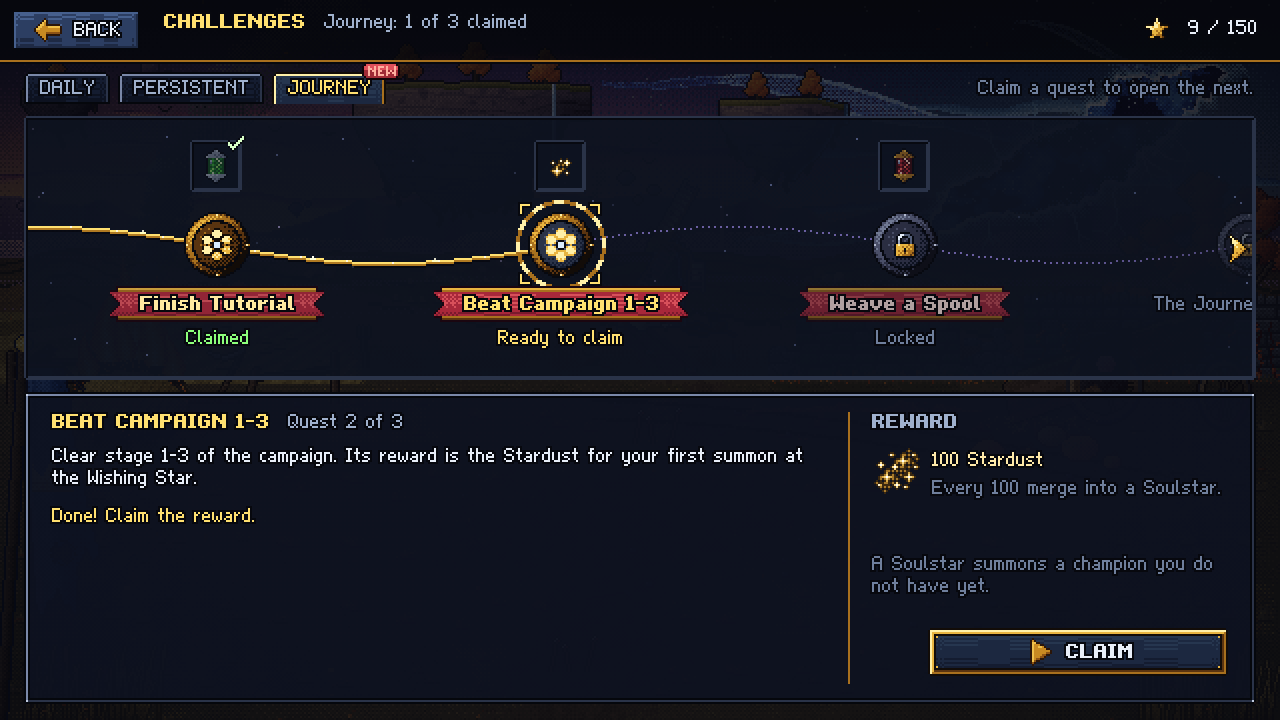
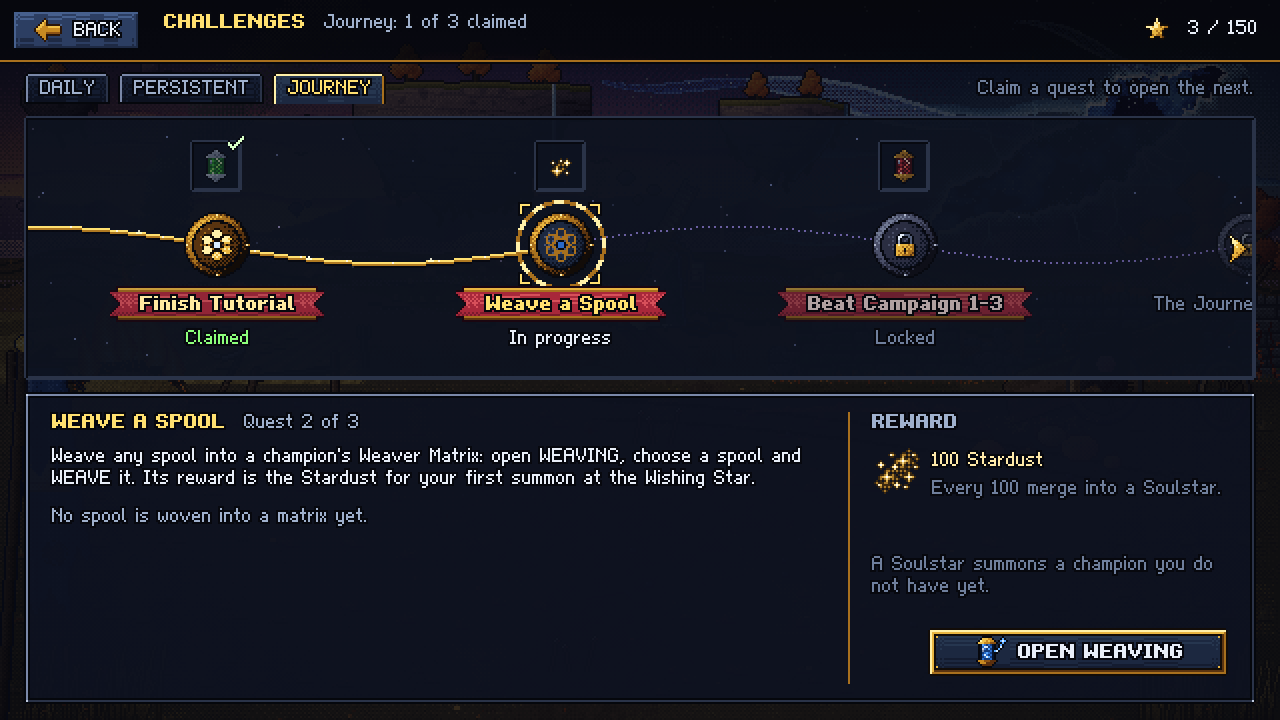
Journey: Weave a Spool second, Beat Campaign 1-3 third, rewards swapped
Jakub, 2026-10-25: "swap quests: weave a spool make sooner and after that
make beat campaign 1-3. reweards can stay. swap also rewards". The two
quests trade places and rewards, so each place keeps its reward: Weave a
Spool (second) gives the 100 Stardust of the third champion's summon,
Beat Campaign 1-3 (third) the Gilded Sunder spool. The tutorial's farewell
now sends the player on to weaving, the summon right after.

- Texts: Weave a Spool names its Stardust; Beat Campaign 1-3 reads
  "Clear stage 1-3 of the campaign."
- Balance: the Journey's Stardust is credited when its quest can first be
  claimed (after the first battle for a woven spool); with a third
  champion from 1-2 on, 1-2 and 1-3 ran 100% and 99% and were raised
  (0.81 -> 1.20, 1.03 -> 1.19: 87% and 86%); every stage in band.
- Tests, the record (36, 35, 7), the mechanics guide, MDA, CLAUDE.md and
  the README's Journey capture follow the new order.

diff --git a/tests/content.test.ts b/tests/content.test.ts
@@ -638,8 +638,11 @@ describe('challenges and the tutorial', () => {
     }
     expect(CHALLENGE_TABS.map((t) => t.id)).toEqual(['daily', 'persistent', 'journey']);
     expect(JOURNEY[0].title).toBe('Finish Tutorial');
-    // Jakub, 2026-10-25: "new journey quest: beat campaign 1-3. reward can be 100 summoning fragments"
-    expect([JOURNEY[1].title, JOURNEY[1].goal, JOURNEY[1].reward]).toEqual(['Beat Campaign 1-3', { kind: 'stage', stage: '1-3' }, { kind: 'fragments', amount: 100 }]);
+    // Jakub, 2026-10-25: "new journey quest: beat campaign 1-3. reward can be 100 summoning fragments", then
+    // "swap quests: weave a spool make sooner and after that make beat campaign 1-3 ... swap also rewards"
+    expect(JOURNEY.map((q) => q.title)).toEqual(['Finish Tutorial', 'Weave a Spool', 'Beat Campaign 1-3']);
+    expect([JOURNEY[1].goal, JOURNEY[1].reward]).toEqual([{ kind: 'weave' }, { kind: 'fragments', amount: 100 }]);
+    expect([JOURNEY[2].goal, JOURNEY[2].reward.kind]).toEqual([{ kind: 'stage', stage: '1-3' }, 'spool']);
   });
 
   it('opens the Journey one quest at a time, and a claim gives its spool or its Stardust once', () => {
@@ -648,7 +651,7 @@ describe('challenges and the tutorial', () => {
     expect([questState(p, first), questState(p, second), questState(p, third)]).toEqual(['open', 'locked', 'locked']);
     // a goal met before its quest opens waits for it
     weave(p);
-    expect(questState(p, third)).toBe('locked');
+    expect(questState(p, second)).toBe('locked');
     expect(claimQuest(p, first.id)).toBeNull();
     p.tutorial = 'done';
     expect(questState(p, first)).toBe('ready');
@@ -660,16 +663,17 @@ describe('challenges and the tutorial', () => {
     expect(p.reliquary.spools()).toHaveLength(before + 1);
     expect(p.reliquary.freshCount()).toBe(1);
     expect(claimQuest(p, first.id)).toBeNull();
-    // Beat Campaign 1-3 waits for its stage, then gives the Stardust of a summon
-    expect([questState(p, first), questState(p, second)]).toEqual(['claimed', 'open']);
+    // Weave a Spool, its goal met before it opened, is ready the moment it opens; its Stardust is a summon
+    expect([questState(p, first), questState(p, second)]).toEqual(['claimed', 'ready']);
     expect(currentQuest(p)).toBe(second);
-    for (const s of allStages().slice(0, 3)) recordClear(p, s.id, 2);
-    expect(questState(p, second)).toBe('ready');
     const dust = p.fragments;
     expect(claimQuest(p, second.id)).toEqual({ kind: 'fragments', amount: 100 });
     expect(p.fragments).toBe(dust + 100);
+    // Beat Campaign 1-3 waits for its stage, then gives its spool
+    expect(questState(p, third)).toBe('open');
+    for (const s of allStages().slice(0, 3)) recordClear(p, s.id, 2);
     expect(questState(p, third)).toBe('ready');
-    claimQuest(p, third.id);
+    expect(claimQuest(p, third.id)?.kind).toBe('spool');
     expect(p.claimed).toEqual(JOURNEY.slice(0, 3).map((q) => q.id));
     expect(readyCount(p)).toBe(0);
   });
@@ -755,8 +759,9 @@ describe('summoning', () => {
     expect(p.fragments).toBe(won.fragments);
     recordClear(p, '1-2', 3);
     expect(p.fragments).toBe(won.fragments);
-    // three first clears alone stay short of a summon: the third champion comes with Beat Campaign 1-3 (his design)
-    expect(['1-1', '1-2', '1-3'].reduce((n, s) => n + fragmentDrop(s, 3), 0)).toBeLessThan(FRAGMENTS_PER_SHARD);
+    // the first battle alone stays short of a summon: the third champion comes with the Journey's Stardust (his design)
+    expect(fragmentDrop('1-1', 3)).toBeLessThan(FRAGMENTS_PER_SHARD);
+    expect(JOURNEY.flatMap((q) => (q.reward.kind === 'fragments' ? [q.reward.amount] : []))).toEqual([FRAGMENTS_PER_SHARD]);
   });
 
   it('merges 100 Stardust into a Soulstar, and spends a Soulstar on a champion not yet owned', () => {

diff --git a/src/game/data/challenges.ts b/src/game/data/challenges.ts
@@ -6,10 +6,12 @@
 // placeholder."). The Journey's quests in their order; each opens once the one
 // before it is claimed. Then (2026-10-25): "maybe we can make also new journey
 // quest: beat campaign 1-3. reward can be 100 summoning fragments. so player
-// then can spawn his third hero", so Beat Campaign 1-3 comes second, before my
-// placeholder. Stand-ins (DESIGN_DECISIONS.md 35, 36): every text but the
-// first two quests' titles, the third quest (Weave a Spool) and the spool
-// rewards.
+// then can spawn his third hero", and the same day: "swap quests: weave a spool
+// make sooner and after that make beat campaign 1-3. reweards can stay. swap
+// also rewards": my placeholder, Weave a Spool, comes second and gives the 100
+// Stardust; Beat Campaign 1-3 comes third and gives the spool. Stand-ins
+// (DESIGN_DECISIONS.md 35, 36): every text but the titles Finish Tutorial and
+// Beat Campaign 1-3, the quest Weave a Spool, and the spool rewards.
 import { PatternId } from './types';
 
 export type ChallengeTab = 'daily' | 'persistent' | 'journey';
@@ -49,20 +51,21 @@ export const JOURNEY: readonly QuestDef[] = [
     goal: { kind: 'tutorial' },
     reward: { kind: 'spool', pattern: 'pattern_vigor', grade: 1 },
   },
-  // his (2026-10-25): its Stardust summons the third champion, the first one drawn at random
-  {
-    id: 'beat_1_3',
-    title: 'Beat Campaign 1-3',
-    text: 'Clear stage 1-3 of the campaign. Its reward is the Stardust for your first summon at the Wishing Star.',
-    goal: { kind: 'stage', stage: '1-3' },
-    reward: { kind: 'fragments', amount: 100 },
-  },
-  // his placeholder; a quest of my own stands in so the pathway can be walked
+  // his placeholder, a quest of my own; second on his word, with the second place's 100 Stardust (his):
+  // the summon of the third champion, the first one drawn at random
   {
     id: 'weave_spool',
     title: 'Weave a Spool',
-    text: "Weave any spool into a champion's Weaver Matrix: open WEAVING, choose a spool and WEAVE it.",
+    text: "Weave any spool into a champion's Weaver Matrix: open WEAVING, choose a spool and WEAVE it. Its reward is the Stardust for your first summon at the Wishing Star.",
     goal: { kind: 'weave' },
+    reward: { kind: 'fragments', amount: 100 },
+  },
+  // his (2026-10-25), third on his word, with the spool the third place gave
+  {
+    id: 'beat_1_3',
+    title: 'Beat Campaign 1-3',
+    text: 'Clear stage 1-3 of the campaign.',
+    goal: { kind: 'stage', stage: '1-3' },
     reward: { kind: 'spool', pattern: 'pattern_sunder', grade: 2 },
   },
 ];

diff --git a/tools/balance.ts b/tools/balance.ts
@@ -12,7 +12,7 @@
 //      the stage. Since summoning (2026-10-25) what they own grows by chance:
 //      Gareth from the start, the Rime Scholar from 1-1, and a summon for every
 //      100 Stardust the first clears before the stage find (one star each) and
-//      the Journey gives (Beat Campaign 1-3). Each stage averages ROSTERS
+//      the Journey gives (Weave a Spool, after the first battle). Each stage averages ROSTERS
 //      rosters, each summoned in its own seeded order at the summon odds, and
 //      up to TEAMS teams of each. Bands per stage kind (below).
 import { combatants, Combatant } from '../src/game/battle/battle';
@@ -115,6 +115,12 @@ const orders = Array.from({ length: ROSTERS }, (_, k) => {
   }
   return order;
 });
+// after which stage (its place in the campaign) each Journey quest is claimed: a stage's goal after that
+// stage, the tutorial and a woven spool after the first battle (it finds a spool, and the tutorial's
+// farewell sends the player to Weaving); never before the quest ahead of it
+const stageIds = LOCATIONS.flatMap((l) => l.stages.map((s) => s.id));
+let ahead = 0;
+const claimedAfter = JOURNEY.map((q) => (ahead = Math.max(ahead, q.goal.kind === 'stage' ? stageIds.indexOf(q.goal.stage) : 0)));
 const owned = [...STARTERS];
 let dust = 0;
 for (const loc of LOCATIONS) {
@@ -146,10 +152,12 @@ for (const loc of LOCATIONS) {
     const kind = loc === LOCATIONS[0] && si === 0 ? 'first' : s.enemies.some((e) => e.boss) ? 'boss' : 'normal';
     const [lo, hi] = CURVE_BANDS[kind];
     console.log(`${flag(w >= lo && w <= hi)} ${s.id.padEnd(6)} power ${s.power.toFixed(2)}  avg ${pct(w)}  best team ${pct(best)}  (${kind} band ${pct(lo)}-${pct(hi)}, ${size} owned)`);
-    // after its first clear: the champion it brings, its Stardust, and the Journey's for it
+    // after its first clear: the champion it brings, its Stardust, and the Journey's claimed then
     if (s.recruit && !owned.includes(s.recruit)) owned.push(s.recruit);
     dust += fragmentDrop(s.id, 1);
-    for (const q of JOURNEY) if (q.goal.kind === 'stage' && q.goal.stage === s.id && q.reward.kind === 'fragments') dust += q.reward.amount;
+    JOURNEY.forEach((q, i) => {
+      if (claimedAfter[i] === stageIds.indexOf(s.id) && q.reward.kind === 'fragments') dust += q.reward.amount;
+    });
   });
 }
 

diff --git a/src/game/tutorial.ts b/src/game/tutorial.ts
@@ -22,7 +22,7 @@
 // finishes it; the steps after it lead to the Challenges to claim that quest.
 //
 // A later lesson (2026-10-25, with summoning) starts on its own the first time
-// a summon waits (Beat Campaign 1-3 claimed, or Stardust enough): the Wishing
+// a summon waits (Weave a Spool claimed, or Stardust enough): the Wishing
 // Star, MERGE, the wish, SUMMON, and the champion who answers. It can only be
 // closed, and is shown once (the save's `lessons`).
 import { Alignment, Config, driver, Driver, PopoverDOM, Side } from 'driver.js';

diff --git a/src/game/data/campaign.ts b/src/game/data/campaign.ts
@@ -106,13 +106,13 @@ export const LOCATIONS: LocationDef[] = [
         id: '1-2',
         blurb: CONTACT,
         enemies: [{ champion: 'captain_gareth' }, { champion: 'rime_scholar' }],
-        power: 0.81,
+        power: 1.2,
       },
       {
         id: '1-3',
         blurb: `${SETTLEMENT} The pair fight together for the first time.`,
         enemies: [{ champion: 'captain_gareth' }, { champion: 'captain_gareth' }],
-        power: 1.03,
+        power: 1.19,
       },
       {
         id: '1-4',

diff --git a/CLAUDE.md b/CLAUDE.md
@@ -37,13 +37,13 @@ Stand-ins fill the gaps until he designs them, each marked as such where it live
 - **Zone 3, the Moonlit Basin** (his name and description, DESIGN_DECISIONS.md 5.6: "extend world map to the east and create new dynamic zone, third area battle background"): everything the description did not name (the moon's ring, the milky band, the clouds, the grove's trees and their glowing lianas, the great root, the long pool and its reed beds, the stones, pebbles and shells, the lumen-bells, the rings on the pools, the shooting stars), the layout and palette, the reading of "dynamic" as alive throughout with calm motion, and on the world map the night over the basin and every detail east of the grove (the darkening trees, the trailing roots, the sand, the terraced slopes and uplands, the pools, reeds and motes, the peaks and their pass).
 - **Zone 4, Earth Scars** (his name and description, DESIGN_DECISIONS.md 5.7: "create area 4. name of area = earth scars"): everything the description did not name (the ravine through the scene and its colours, the far camp and herd, the camp's details, the cairn, the cart ruts, the skull, the feather grass and its seeds, the gusts, the eagles, the clouds and the summit's banner cloud, the zeppelin's look and course), the layout and palette, my readings in 5.7 (the night lifting along the hills' crest, one ravine crossing the scene and the other far off, the flags tied along a cord, the twin at about four fifths of the great one's height, the zeppelin flying west against the wind), and on the world map every detail east of the hills' crest (the hills by day, the ravines' shapes, the camps with their corral and cart, the herds, the kurgans and stone figures, the lone tree, the salt lake, the trails, the shrubs, the trees and stream in the northern ravine, the flowers, the zeppelin and its shadow).
 - **Zone 5, the Snowy Mesa** (his name and description, DESIGN_DECISIONS.md 5.8: "i want you to create area 5"; mid-build "fix the sword of statue as it now looks like it is behind the hand" and "maybe also put a dragon bone somewhere in front left side of battle area"): everything the description did not name (the sea of cloud, the mesas' rock and their shadows, the lanterns on the cables and the posts on our rim, the castle's look, the plume's shades and its lean, the motes, the lightning in the storm, the flurries and the veils, the arbiter's bronze, nimbus, lotus, plinth and pose, the terrace and the footprints, the challengers' swords, the stone lantern, the dragon skull's look, the rocks, the choughs), the layout and palette, my readings in 5.8 ("all connected with many candles" as cables strung between the mesas hung with candles in lanterns, the late light on the world map, the storm from the upper right and from the east, the dust leaning west on the wind, the raised palm as the arbiter's sign, the dragon bone as a horned skull), and on the world map every detail east of the brink (the brink and its waterfalls, the gulf's clouds, the mesas' shapes and places, the bridges, the castle's mesa to the north-west, the pines and candles round the statue, the storm's reach).
-- **Campaign:** Zone 1's enemies (copies of the two), its stage texts (quoted from his notes; stages have no names) and the area blurbs; Zone 2's ten placeholder stages (his request of 2026-10-13, to test the area in game): their enemies (copies of the roster), powers and texts (quoting the arc of his notes); Zone 3's ten placeholder stages (my addition of 2026-10-17, so its background can be seen in game): their enemies (copies of the roster, 3-10 a boss Black Rhino), powers and texts (walking his description; the area blurb is its first sentence); 3-9 runs at 0.80; Zone 4's ten placeholder stages (his request of 2026-10-18): their enemies (copies of the roster, the Skeleton and the Rot Hulk among them, 4-10 a boss Red Cloak), powers and texts (walking his description); Zone 5's ten placeholder stages (his request of 2026-10-19): their enemies (copies of the roster, 5-10 a boss Irving Wellbington), powers and texts (walking his description). Since summoning (2026-10-25) only 1-1 brings a champion, and 1-4, 1-8, 1-9 and 1-10 run at 1.20, 0.78, 0.76 and 0.78 for the rosters summoning grows. Stage powers and every stage's enemies wait for Jakub, who will dictate them (2026-10-12).
+- **Campaign:** Zone 1's enemies (copies of the two), its stage texts (quoted from his notes; stages have no names) and the area blurbs; Zone 2's ten placeholder stages (his request of 2026-10-13, to test the area in game): their enemies (copies of the roster), powers and texts (quoting the arc of his notes); Zone 3's ten placeholder stages (my addition of 2026-10-17, so its background can be seen in game): their enemies (copies of the roster, 3-10 a boss Black Rhino), powers and texts (walking his description; the area blurb is its first sentence); 3-9 runs at 0.80; Zone 4's ten placeholder stages (his request of 2026-10-18): their enemies (copies of the roster, the Skeleton and the Rot Hulk among them, 4-10 a boss Red Cloak), powers and texts (walking his description); Zone 5's ten placeholder stages (his request of 2026-10-19): their enemies (copies of the roster, 5-10 a boss Irving Wellbington), powers and texts (walking his description). Since summoning (2026-10-25) only 1-1 brings a champion, and 1-2, 1-3, 1-4, 1-8, 1-9 and 1-10 run at 1.20, 1.19, 1.20, 0.78, 0.76 and 0.78 for the rosters summoning grows. Stage powers and every stage's enemies wait for Jakub, who will dictate them (2026-10-12).
 - **Rules:** the size of an affinity edge (±20%), the rarity budgets (carried over), how far RES must exceed ACC to resist a debuff (`landShare`), team size 3.
 - **Weaver Matrix:** the spool main values, strands and attunement, and the reading of his pattern values (fractions of base for SPD, ATK, DEF and HP, points for C.RATE and C.DMG, flat ACC and RES).
 - **Weaving and the drops** (his brief, DESIGN_DECISIONS.md 9.4: a WEAVING section on the main menu, a full inventory screen matching the Champions screen, spools from every stage, two patterns per area, numbers he tunes later, no improving): which two patterns each area holds (Sunder and Vigor, Pulse and Ward, Focus and Tranquility, Needle and Sunder, Apex and Pulse); every drop number (one spool a victory, a second for three stars, grade odds 70/25/5% to 30/45/25% through an area, the main stat by slot); unravelling a loose spool (my addition: removal, nothing given back); the texts; the art (the large spools, the grade frames, the small roses, the WEAVING glyph).
 - **The Sanctum, the main menu** (his brief, DESIGN_DECISIONS.md 10, 2026-10-24: a diorama of its own, places clicked instead of buttons, only champions changing, "very epic", "celestial or planetar", "full creativity"): all of it is mine: the island under the broken Loom, the rim, its hanging threads, the break, the veils and the golden thread, the planet, the nebula; the places' names (the Starbridge Gate, the Reliquary, the Weaver's Spire, the Observatory, the Astrolabe, since section 35 the Herald's Board and since section 36 the Wishing Star) and look; four champions at most on the plaza; the labels on the island's face.
-- **Challenges and the tutorial** (his brief, DESIGN_DECISIONS.md 35, 2026-10-24: a clickable new object on the main menu leading to Challenges, quests in three tabs, Daily and Persistent placeholders, the Journey a horizontal pathway of quests unlocked in order, the first "Finish Tutorial", the second a placeholder; a short tutorial for new accounts made with driver.js, highlighting where to click): the place, its name and look (the Herald's Board on its drifting rock), every text of the Challenges and the tutorial but "Finish Tutorial", the Daily and Persistent placeholders, the third quest (Weave a Spool; his Beat Campaign 1-3 is the second since 2026-10-25), the spool rewards (a Silver Vigor spool, a Gilded Sunder spool), the Journey's look (the band, the Loom's thread, the knots), the tutorial's steps, order and look (the cards in the game's font, the gold corners, the hand), that the first victory finishes it, that it starts on its own only on a save with no stage cleared, and that it can be skipped and played again from the Journey.
-- **Summoning** (his brief, DESIGN_DECISIONS.md 36, 2026-10-25: champions spawned from a special currency, fragments from the campaign, 100 merged into a shard, a shard a random champion at 70% Common, 25% Elite, 5% Heroic, a wish of a faction and a role "just a better chance", a new object in the main menu's sky to merge and summon, the Rime Scholar from 1-1 the only exception, the Journey's Beat Campaign 1-3 giving 100 fragments; "propose better naming"): the names (Stardust, the Soulstar, the Wishing Star; the words live in `src/game/data/summoning.ts`), how much Stardust a victory finds (20 in the Fracture Reach, 5 more in each area beyond it, 10 more for three stars), the wish's weight (twice as likely for each part a champion matches), that a summon never brings a champion twice and a found-out rarity's share goes to the others, the Paladin among the summons, the place and its look (the star on the Loom's thread, its ring, its motes, the souls drifting in, its label on the thread above it; the moon moved right of the title), the screen and its words, the ceremony's line, the lesson on the first summon, and the raised powers of 1-4, 1-8, 1-9 and 1-10.
+- **Challenges and the tutorial** (his brief, DESIGN_DECISIONS.md 35, 2026-10-24: a clickable new object on the main menu leading to Challenges, quests in three tabs, Daily and Persistent placeholders, the Journey a horizontal pathway of quests unlocked in order, the first "Finish Tutorial", the second a placeholder; a short tutorial for new accounts made with driver.js, highlighting where to click): the place, its name and look (the Herald's Board on its drifting rock), every text of the Challenges and the tutorial but "Finish Tutorial", the Daily and Persistent placeholders, the quest Weave a Spool (second on his word of 2026-10-25, giving the 100 Stardust; his Beat Campaign 1-3 third), the spool rewards (a Silver Vigor spool for Finish Tutorial, a Gilded Sunder spool for Beat Campaign 1-3), the Journey's look (the band, the Loom's thread, the knots), the tutorial's steps, order and look (the cards in the game's font, the gold corners, the hand), that the first victory finishes it, that it starts on its own only on a save with no stage cleared, and that it can be skipped and played again from the Journey.
+- **Summoning** (his brief, DESIGN_DECISIONS.md 36, 2026-10-25: champions spawned from a special currency, fragments from the campaign, 100 merged into a shard, a shard a random champion at 70% Common, 25% Elite, 5% Heroic, a wish of a faction and a role "just a better chance", a new object in the main menu's sky to merge and summon, the Rime Scholar from 1-1 the only exception, the Journey's Beat Campaign 1-3 giving 100 fragments, then the quests swapped with their rewards, so Weave a Spool, second, gives them; "propose better naming"): the names (Stardust, the Soulstar, the Wishing Star; the words live in `src/game/data/summoning.ts`), how much Stardust a victory finds (20 in the Fracture Reach, 5 more in each area beyond it, 10 more for three stars), the wish's weight (twice as likely for each part a champion matches), that a summon never brings a champion twice and a found-out rarity's share goes to the others, the Paladin among the summons, the place and its look (the star on the Loom's thread, its ring, its motes, the souls drifting in, its label on the thread above it; the moon moved right of the title), the screen and its words, the ceremony's line, the lesson on the first summon, and the raised powers of 1-2, 1-3, 1-4, 1-8, 1-9 and 1-10.
 - **Texts:** the Academy, the role descriptions, rule numbers, norms and effects.
 
 Do not add champions, factions, zones or lore beyond his record: he mediates content himself.

diff --git a/docs/MDA.md b/docs/MDA.md
@@ -365,13 +365,13 @@ Zone 5, the *Snowy Mesa*: ten placeholder stages (2026-10-19) on Jakub's request
 | --- | --- | --- |
 | Starters | Sir Aldric, Brakka, Sylwen: one per cycle affinity | `STARTERS` |
 | Recruit | 1-1's first clear recruits the Rime Scholar; ceremony; NEW badge until the champion page is opened | `recordClear`, `RecruitScreen`, `HeroSoulFile.fresh` |
-| Summoning | every victory finds Stardust (20 in the Fracture Reach, 5 more per area, 10 more for three stars: stand-ins); 100 merge into a Soulstar; a summon spends one: 70% Common, 25% Elite, 5% Heroic (his), then a champion not yet owned, those the wish names twice as likely per part (a stand-in); the ceremony; Beat Campaign 1-3 gives 100 | `summoning.ts`, `SummonScreen`, `MasterArchivist.fragments` / `shards` / `wish` |
+| Summoning | every victory finds Stardust (20 in the Fracture Reach, 5 more per area, 10 more for three stars: stand-ins); 100 merge into a Soulstar; a summon spends one: 70% Common, 25% Elite, 5% Heroic (his), then a champion not yet owned, those the wish names twice as likely per part (a stand-in); the ceremony; the Journey's Weave a Spool gives 100 | `summoning.ts`, `SummonScreen`, `MasterArchivist.fragments` / `shards` / `wish` |
 | Unlocks | a stage opens after the previous stage of its location; a location after its `requires` stage | `stageOpen`, `locationOpen` |
 | Frontier | the newest playable stage: map focus, the collection's and Weaving's backdrop, the menu's CAMPAIGN label | `frontier` |
 | Stars | best per stage; the total shows in every header | `MasterArchivist.stars`, `totalStars` |
 | Academy | 13 chapters, read marks, "n new" on the menu | `CHAPTERS`, `MasterArchivist.read` |
 | Settings | auto and speed, saved as defaults from battle and Options | `MasterArchivist.settings` |
-| Challenges | the Journey: quests in order, each opened by claiming the one before; a claim gives a spool (stand-ins) or Stardust (Beat Campaign 1-3, his); Daily and Persistent are placeholders | `JOURNEY`, `questState`, `claimQuest` |
+| Challenges | the Journey: quests in order, each opened by claiming the one before; a claim gives a spool (stand-ins) or Stardust (Weave a Spool, his reward, swapped onto it from Beat Campaign 1-3); Daily and Persistent are placeholders | `JOURNEY`, `questState`, `claimQuest` |
 | Tutorial | a new account's guided first visit through stage 1-1 to the Challenges; skippable, replayable from the Journey; a lesson on the first summon once one waits | `Tutorial`, `tutorialDue`, `summonLessonDue` |
 | Shortcuts | `?unlockall=1`, `?progress=<stage>`, `?reset=1`, `?demo=<skill>`, `?hp=<k>`, `?tutorial=1` (or `0`, `epilogue`, `summon`), `?stardust=<n>`, `?soulstars=<n>` | `main.ts`, `screens/battle.ts` |
 
@@ -731,6 +731,7 @@ Record every change that moves a dynamic out of its band, changes a band, or cha
 | 2026-10-24 | The Paladin (Jakub's brief, DESIGN_DECISIONS.md 34): Heroic, the roster's first, Tank ("class = DEFENSE"), Ember (Tide in the brief, Ember on his word the same day), Azure Crown, the reward of a quest line he designs later; a tall young knight in silver plate with a dark-blue cloak of three white crowns, a Swiss-shaped shield with a double cross and a wide, very bright burning sword; Searing Cut (1.0) with ATK Down for 1 turn; Beacon (cooldown 4), DEF Up on all allies and Slow on all enemies for 2 turns, no damage, and 35% of his own turn meter (`selfTm`, now shown as `+35% TURN` as his turn ends); Trial by Fire (0.7 on each enemy, cooldown 5), Taunt for 2 turns and Regen for 3 on himself before the sweep; Unbowed, +50 RES (a stat passive). Presentation: flames drawn into every frame of his sprite, and the atlas carries where his blade burns (`CharDef.glow`), so the game lights the air round it and throws embers off it. Joins on the first clear of 5-10 (a stand-in for his quest line), after the last stage | AE1, AE3, DY1 | impact: the Paladin 82% (84% with the sweep at 0.8), the roster's highest; 11 lines out (were 13: a strong champion among the opponents brought three Elites into the band); no stage's curve moved (he joins after the last) | 11 lines out; T22 | set by Jakub; the names Searing Cut, Beacon, Trial by Fire and Unbowed, the texts, the multipliers, the stats, the lore line, the stage that brings him and the details of his art are stand-ins; no power or other champion retuned |
 | 2026-10-24 | Challenges and the tutorial (Jakub's brief, DESIGN_DECISIONS.md 35): a new place on the main menu (the Herald's Board) leading to Challenges in three tabs, Daily and Persistent placeholders and the Journey, a horizontal pathway of quests unlocked one after another (Finish Tutorial, then Weave a Spool standing in for his placeholder), each claim giving a spool; a short tutorial for new accounts made with driver.js: the Sanctum, the campaign, stage 1-1 (the turn meter, a stronger skill, a target, a cooldown), the victory and its recruit, the Challenges and a claim | AE4, AE6, AE3 | DY11: the first battle is taught on screen as it happens; DY9: two spools more over the first quests (a Silver, a Gilded) | a new account met the Sanctum alone -> about fifteen short cards and one battle; spools from quests 0 -> 2 | set by Jakub: the place, the three tabs and their order, the Journey's sequence and its first quest, a tutorial with driver.js; stand-ins: the Herald's Board, the second quest, the rewards, every text but "Finish Tutorial", the tutorial's steps and look; no power retuned |
 | 2026-10-25 | Summoning (Jakub's brief, DESIGN_DECISIONS.md 36): champions are summoned, not won; every victory finds Stardust (20 in the Fracture Reach, 5 more per area, 10 more for three stars), 100 merge into a Soulstar, a Soulstar summons a champion not yet owned at 70% Common, 25% Elite, 5% Heroic, a wish of a faction and a role making what it names twice as likely per part; the Wishing Star in the Sanctum's sky; only 1-1 still brings a champion (the Rime Scholar); Beat Campaign 1-3 on the Journey gives 100 Stardust, the third champion's summon; a lesson on the first summon | AE3, AE6, AE4 | DY9 becomes chance: the roster grows by summons (a third champion after 1-3, five after Zone 1 and eighteen by the end without farming, in a random order); replays now pay toward champions; Zone 1's teams are Gareth and the Rime Scholar with one or two drawn at random, so 1-4, 1-8, 1-9 and 1-10 ran 100 / 95 / 95 / 89%; the balance curve now grows rosters as summoning does (eight seeded rosters) | 1-4 1.20 (was 0.86), 1-8 0.78 (0.71), 1-9 0.76 (0.68), 1-10 0.78 (0.70): 87 / 87 / 85 / 73%; every stage in band; impact unchanged (11 lines out) | set by Jakub: the currency and its merging (100 to 1), the summon and its odds, the wish as a better chance, the place in the sky, the Rime Scholar the only exception, Beat Campaign 1-3 and its 100; stand-ins: the names (Stardust, Soulstar, the Wishing Star), how much a victory finds, the wish's weight, no repeats, the Paladin among the summons, the place's look, the screen, the lesson, the four powers |
+| 2026-10-25 | The Journey reordered on Jakub's word (DESIGN_DECISIONS.md 36): Weave a Spool second, Beat Campaign 1-3 third, the two swapping rewards (the 100 Stardust stay with the second quest) | AE6, AE3 | DY9: the third champion comes right after the tutorial (Finish Tutorial's spool woven), before 1-2; DY11: the tutorial's farewell sends the player to Weaving and the next quest is weaving | 1-2 and 1-3 ran 100% and 99% with a third champion -> powers 1.20 (was 0.81) and 1.19 (1.03): 87% and 86%; every stage in band | set by Jakub: the order and the swap of the rewards; stand-ins: Weave a Spool itself, both texts, the two powers |
 
 ## 10. Keeping this document true
 

diff --git a/docs/DESIGN_DECISIONS.md b/docs/DESIGN_DECISIONS.md
@@ -78,6 +78,7 @@ Section 7 lists what is not decided.
 | 2026-10-24 | The Paladin's affinity: Ember (Tide in the brief) | 34 |
 | 2026-10-24 | Challenges: a new place on the main menu leading to a screen of quests in three tabs, Daily and Persistent (placeholders) and the Journey (a horizontal pathway of quests unlocked one after another: Finish Tutorial, then a placeholder); a short tutorial for new accounts, made with driver.js | 7, 11, 35 |
 | 2026-10-25 | Summoning: champions are summoned with a currency found in the campaign (100 fragments merge into a shard, a shard summons one champion at random: 70% Common, 25% Elite, 5% Heroic), a wish of a faction and a role making them likelier, a new object in the Sanctum's sky where fragments are merged and champions summoned; the Rime Scholar, from 1-1, the only champion a stage brings; a Journey quest, Beat Campaign 1-3, giving 100 fragments; better names asked for (my proposal stands in) | 2.2, 5.6-5.8, 7, 11, 34, 35, 36 |
+| 2026-10-25 | The Journey reordered: Weave a Spool second, Beat Campaign 1-3 third, the two swapping rewards, so the second quest still gives the 100 fragments | 7, 35, 36 |
 
 ---
 
@@ -1104,10 +1105,13 @@ open questions.
 - The Daily and Persistent challenges: "for now in daily and persistent tabs
   those ar ejust placeholders" (2026-10-24) *(the tabs show empty rows and
   "not designed yet", section 35)*
-- The Journey after its second quest, and what the first gives: "second
-  quest is placeholder" (2026-10-24), then "beat campaign 1-3. reward can be
-  100 summoning fragments" (2026-10-25) *(the game stands in Weave a Spool as
-  the third, and a spool for Finish Tutorial and for it, sections 35, 36)*
+- The Journey after its third quest, and what Finish Tutorial and Beat
+  Campaign 1-3 give: "second quest is placeholder" (2026-10-24), then "beat
+  campaign 1-3. reward can be 100 summoning fragments" and "swap quests:
+  weave a spool make sooner and after that make beat campaign 1-3"
+  (2026-10-25) *(the game stands in Weave a Spool as the second quest, giving
+  the 100 fragments since the swap, and a spool for Finish Tutorial and for
+  Beat Campaign 1-3, sections 35, 36)*
 - Campaign count of zones
 - Zone 3's stages, enemies and story *(the game stands in ten placeholder
   stages, 5.6)*
@@ -2794,8 +2798,8 @@ read from the save as it stands, so a goal met before the quest opens counts
 the moment it does; claiming gives the quest's reward and opens the next.
 "Finish Tutorial" is done when the tutorial is finished: the first battle won
 while it runs. "Second quest is placeholder": a quest of my own stands in so
-the pathway can be walked *(since 2026-10-25 his Beat Campaign 1-3 is the
-second quest and mine the third, section 36)*. He named no rewards; each quest gives a spool. "For
+the pathway can be walked *(since 2026-10-25 it stays second, now giving
+the 100 Stardust, and his Beat Campaign 1-3 follows it, section 36)*. He named no rewards; each quest gives a spool. "For
 new accounts": the tutorial starts on its own on a save with no stage
 cleared, unless it was finished or skipped; anyone can play it from the
 Journey. "Use driver.js": driver.js (1.9.0) draws the overlay and its
@@ -2919,7 +2923,8 @@ champions are fragments (section 8).
   100 Stardust. "So player then can spawn his third hero, this one will be
   first randomized": the first three stages find less than 100 between them
   (20 a victory, 30 when nobody falls), so the third champion comes with the
-  quest.
+  quest. *(Changed the same day by the swap below: the 100 Stardust now come
+  with the second quest, Weave a Spool.)*
 
 **As built.** *The Wishing Star:* in the Sanctum's sky between the Starbridge
 Gate and the Reliquary, at the end of a thread of the Loom's starlight that
@@ -2948,9 +2953,9 @@ results panel shows the Stardust found ("+30 Stardust"); an area's stage list
 "20 Stardust a victory, 30 when nobody falls"; a champion not owned reads "At
 the Wishing Star" in the Champions screen and "Summon at the Wishing Star" on
 its page (the Rime Scholar still "Clear stage 1-1"); the Academy has a
-chapter, Summoning; Beat Campaign 1-3 carries its Stardust above its knot and
-offers TO THE CAMPAIGN while open, TO THE WISHING STAR once claimed while a
-summon waits. *The tutorial:* a lesson for the first summon starts on its own
+chapter, Summoning; the quest that gives Stardust carries it above its knot
+and offers TO THE WISHING STAR once claimed while a summon waits, and Beat
+Campaign 1-3 offers TO THE CAMPAIGN while open. *The tutorial:* a lesson for the first summon starts on its own
 the first time a summon waits (a save whose tutorial was not skipped): the
 Wishing Star in the Sanctum, MERGE 100, a word on the wish, SUMMON; the
 ceremony plays alone; back at the star a last card names who answered. It can
@@ -2967,4 +2972,31 @@ that a wish counts a champion twice for each part it matches; that a summon
 never brings a champion twice and a found-out rarity's share goes to the
 others; the Paladin among the summons; the place, its look and where its label
 hangs; the screen, its words and its animation; the lesson; the raised powers
-of 1-4, 1-8, 1-9 and 1-10; Weave a Spool as the third quest.
+of 1-4, 1-8, 1-9 and 1-10 (and since the swap 1-2 and 1-3); Weave a Spool,
+my quest, on the Journey.
+
+**The swap** (the same day), verbatim:
+
+```
+swap quests: weave a spool make sooner and after that make beat campaign 1-3. reweards can stay. swap also rewards
+```
+
+*Reading.* The two quests trade places, Weave a Spool second and Beat
+Campaign 1-3 third, and "swap also rewards": they trade rewards too, so each
+place keeps its reward ("reweards can stay"). Weave a Spool now gives the 100
+Stardust and Beat Campaign 1-3 the Gilded Sunder spool. The Journey reads:
+Finish Tutorial (a Silver Vigor spool), Weave a Spool (100 Stardust), Beat
+Campaign 1-3 (a Gilded Sunder spool). Its goal is quick to meet (Finish
+Tutorial's spool and the first battle's are there to weave, and the
+tutorial's farewell sends the player to Weaving), so the third champion now
+comes just after the tutorial, the first drawn at random, before 1-2. *As
+built:* the order and the rewards in `JOURNEY`; Weave a Spool's text names
+its Stardust ("Its reward is the Stardust for your first summon at the
+Wishing Star."), Beat Campaign 1-3's reads "Clear stage 1-3 of the
+campaign."; the tutorial's farewell now points at Weave a Spool. A save that
+had claimed Beat Campaign 1-3 before the swap keeps its claims only up to the
+first quest not claimed in the new order (section 35's rule). With a third
+champion from 1-2 on, 1-2 and 1-3 ran 100% and 99%, and were raised to their
+neighbour's level (power 0.81 to 1.20 and 1.03 to 1.19: 87% and 86%); the
+balance tool credits the Journey's Stardust when its quest can first be
+claimed.

diff --git a/docs/MECHANICS_GUIDE.md b/docs/MECHANICS_GUIDE.md
@@ -405,8 +405,8 @@ The Challenges are quests to accomplish, in three tabs (Jakub, 2026-10-24, [DESI
 | Quest | Goal | Reward |
 | --- | --- | --- |
 | Finish Tutorial (his) | the tutorial finished: its first victory | a Silver Vigor spool |
-| Beat Campaign 1-3 (his, 2026-10-25) | stage 1-3 cleared | 100 Stardust (his): the third champion's summon |
-| Weave a Spool (stand-in for his placeholder) | any spool woven into any champion's Weaver Matrix | a Gilded Sunder spool |
+| Weave a Spool (stand-in for his placeholder; second on his word, 2026-10-25) | any spool woven into any champion's Weaver Matrix | 100 Stardust (his): the third champion's summon |
+| Beat Campaign 1-3 (his, 2026-10-25; third on his word) | stage 1-3 cleared | a Gilded Sunder spool |
 
 A reward spool has its quest's pattern and grade; its main stat is drawn by slot and its strands rolled as a found spool's are (section 14), and it comes into storage as a new find. Stardust goes to the Wishing Star (section 16). The spool rewards are stand-ins.
 
@@ -417,7 +417,7 @@ A reward spool has its quest's pattern and grade; its main stat is drawn by slot
 Champions are summoned (Jakub, 2026-10-25, [DESIGN_DECISIONS.md](DESIGN_DECISIONS.md) 36): Captain Gareth is there from the start, the first clear of 1-1 brings the Rime Scholar, and every other champion comes from the Wishing Star. The names (Stardust, Soulstar, the Wishing Star) are my proposal for his "fragments" and "spawning shard", standing in until he chooses.
 
 **Rules.**
-1. Every campaign victory finds Stardust: a first clear or a replay alike, a defeat none (`?progress=` none either). How much is a stand-in: 20 in the Fracture Reach and 5 more in each area beyond it, 10 more when nobody fell. The Journey's Beat Campaign 1-3 gives 100 (his).
+1. Every campaign victory finds Stardust: a first clear or a replay alike, a defeat none (`?progress=` none either). How much is a stand-in: 20 in the Fracture Reach and 5 more in each area beyond it, 10 more when nobody fell. The Journey's second quest, Weave a Spool, gives 100 (his, the quests and their rewards swapped on his word).
 2. 100 Stardust merge into one Soulstar (his number), one MERGE at a time.
 3. A summon spends one Soulstar. Its rarity is drawn at his odds: 70% Common, 25% Elite, 5% Heroic (Mythic 0).
 4. Then one champion of that rarity, from those the Archivist does not own; never a starter, never the champion a stage brings. A champion is never summoned twice (a stand-in): once every champion of a rarity is owned, its share goes to the rarities left, in proportion; once every champion is owned, nothing can be summoned.
@@ -435,4 +435,4 @@ Champions are summoned (Jakub, 2026-10-25, [DESIGN_DECISIONS.md](DESIGN_DECISION
 
 **The menu:** the SUMMON label counts the summons waiting (Soulstars and whole hundreds of Stardust, no more than the champions left to find), with the NEW badge while there is one; the Wishing Star shines brighter then.
 
-**Balance:** `npm run balance` section 4 grows each roster as summoning would: the starters, 1-1's Rime Scholar, and a summon for every 100 Stardust the first clears before a stage find at one star, plus the Journey's 100 after 1-3; eight rosters, each summoned in its own seeded order at these odds without a wish, up to 60 of their teams each.
+**Balance:** `npm run balance` section 4 grows each roster as summoning would: the starters, 1-1's Rime Scholar, and a summon for every 100 Stardust the first clears before a stage find at one star, plus the Journey's 100 when their quest can first be claimed (Weave a Spool: after the first battle, which finds a spool to weave); eight rosters, each summoned in its own seeded order at these odds without a wish, up to 60 of their teams each.
